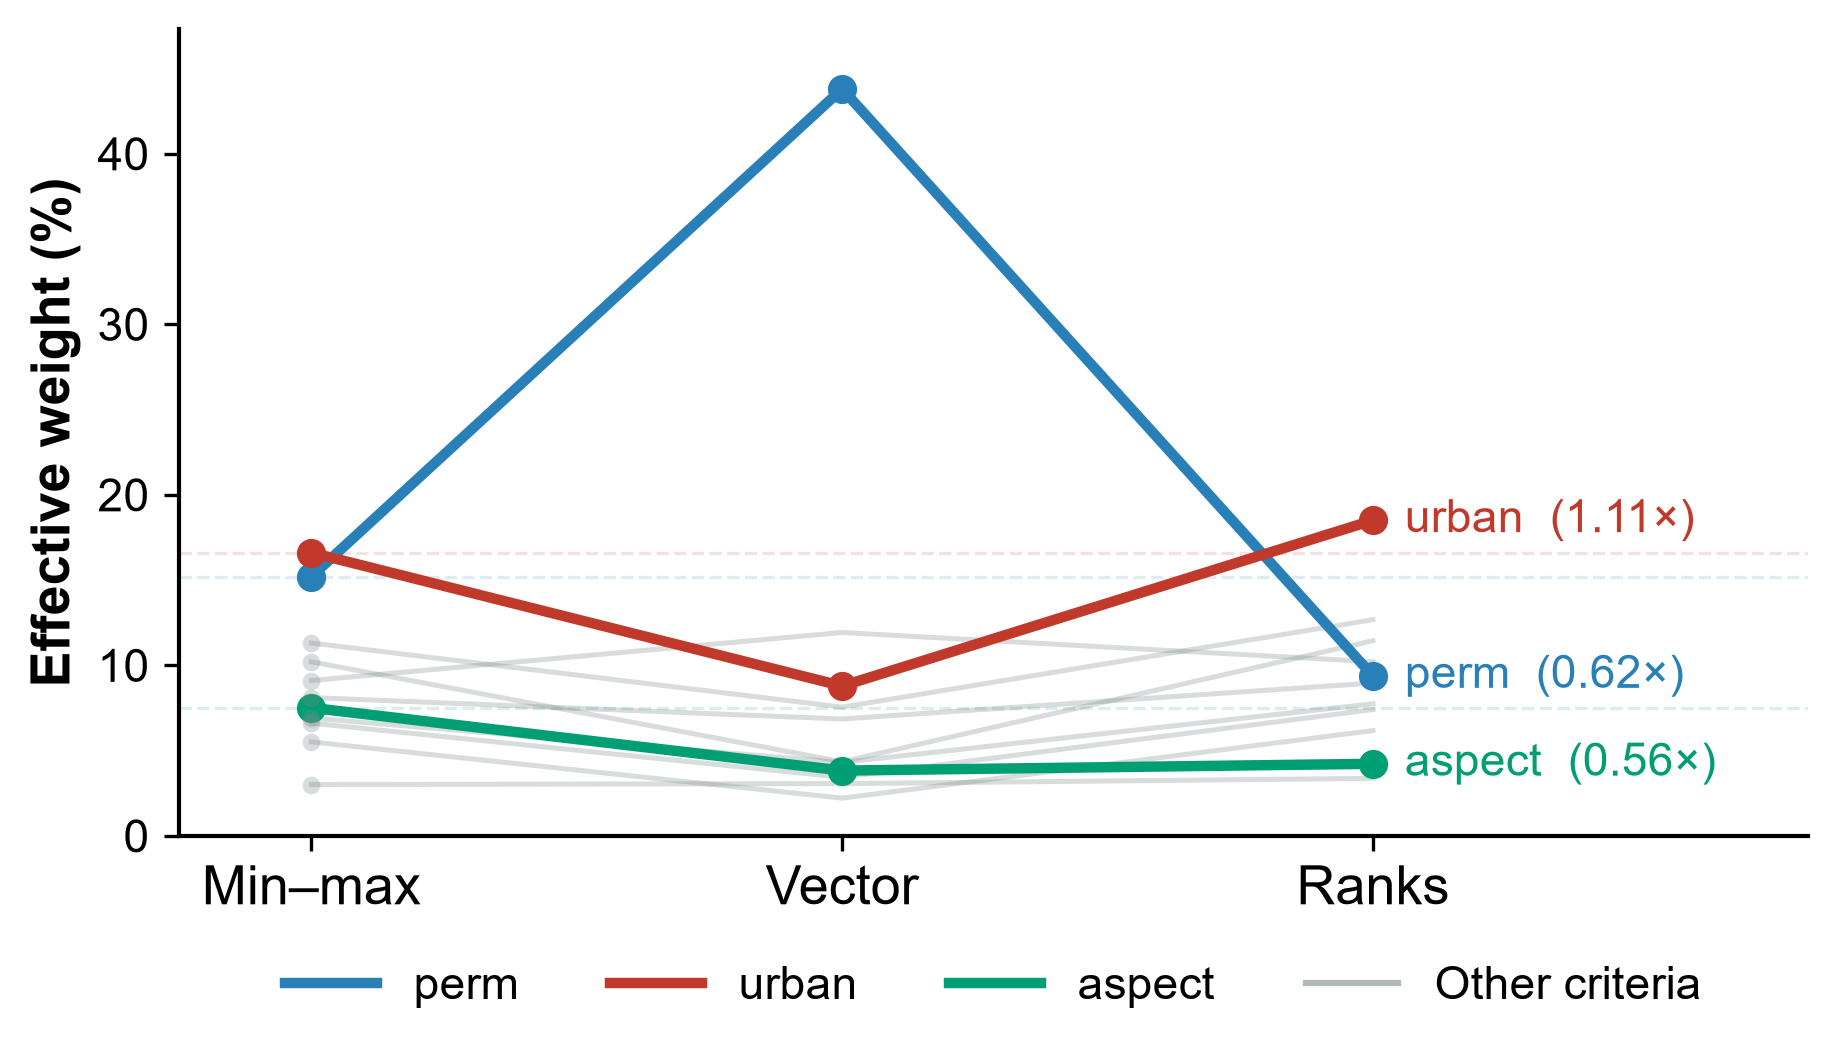
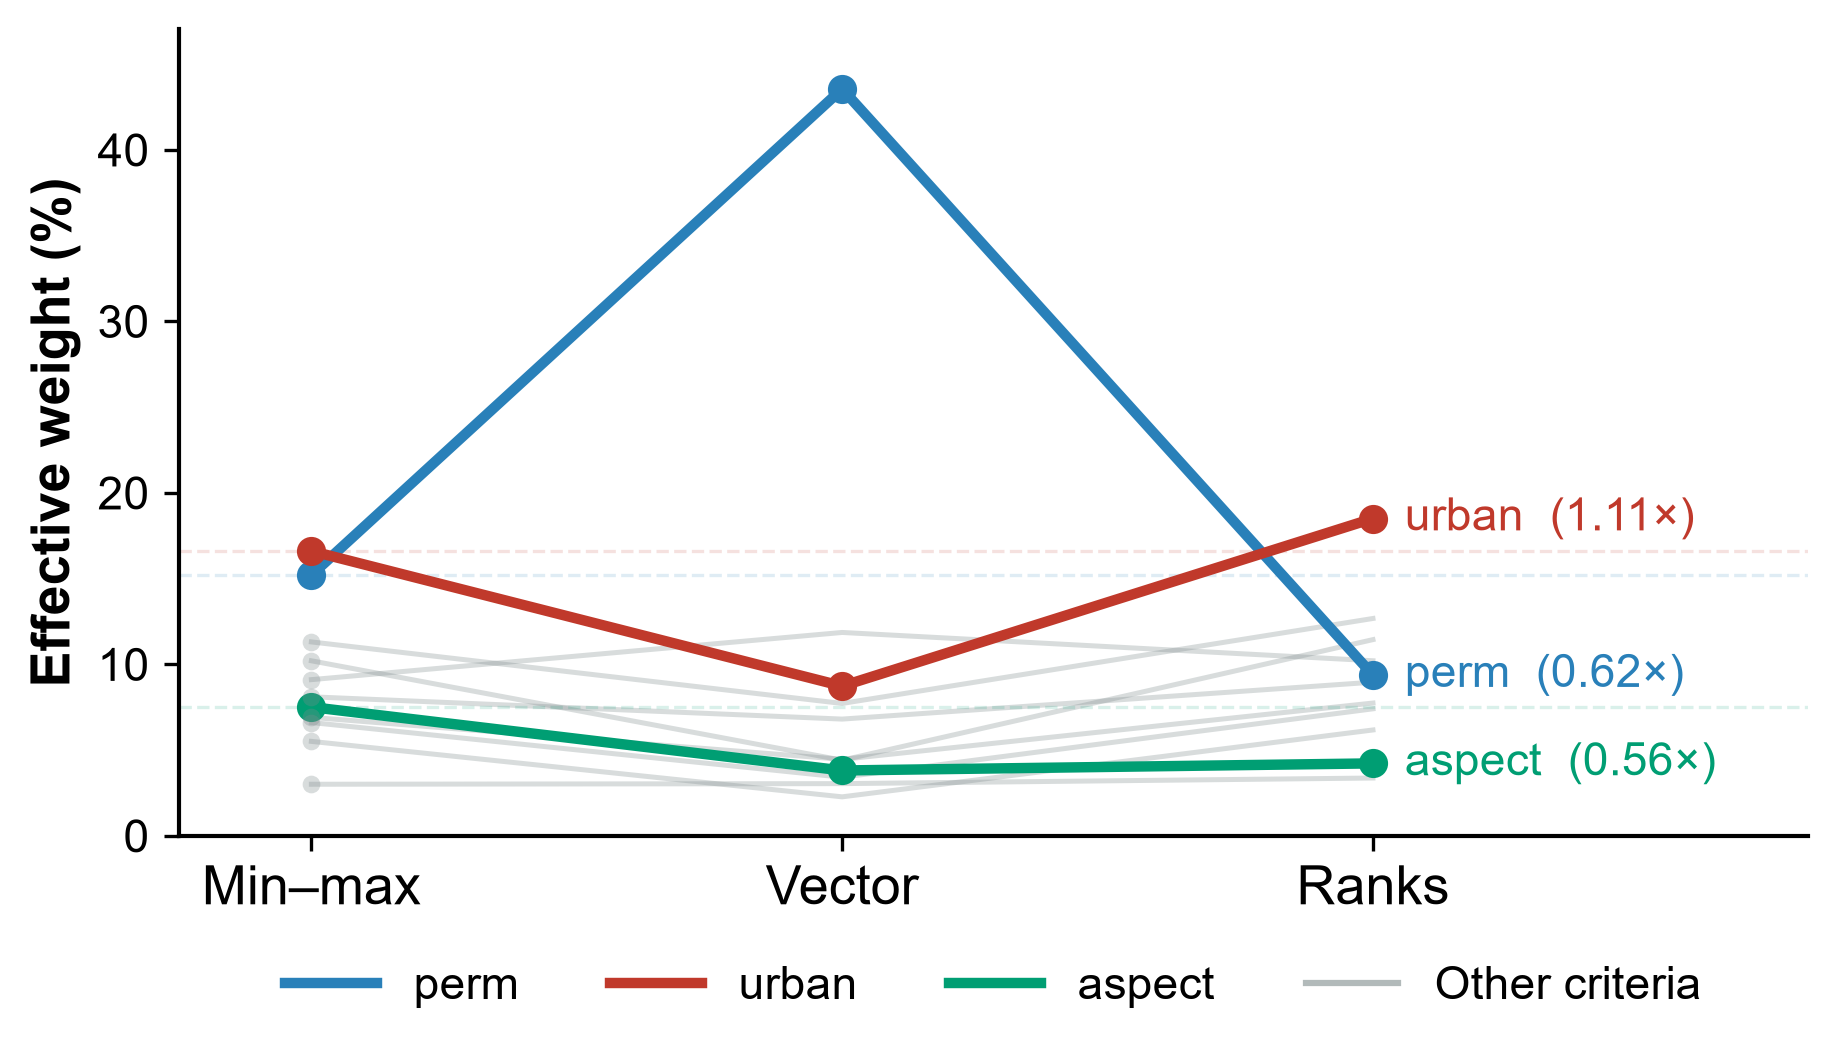
fix: A2/A8/A9/G1 -- raw->shift in para6.8, ties counted-not-excluded, divides->scales, fig_F1 reads from amplitudes.json (perm 2.88x->2.86x)

diff --git a/scripts/fig_F1_slope_weights.py b/scripts/fig_F1_slope_weights.py
@@ -1,25 +1,46 @@
-"""F1 — Slope chart: nominal vs effective weights, Intervention Window style."""
-import sys, os
+"""F1 — Slope chart: nominal vs effective weights, Intervention Window style.
+
+Reads rho_j amplitudes from results/amplitudes/amplitudes.json (AUTO-GENERATED).
+Never use hardcoded amplitude values — the JSON is the single source of truth.
+"""
+import sys, os, json
 sys.path.insert(0, os.path.dirname(os.path.abspath(__file__)))
 from fig_utils import set_rcparams, savefig, COL2, WONG, C_TREATMENT, C_BASELINE, C_ORANGE, C_GREEN, C_GRAY
 import matplotlib.pyplot as plt
 import matplotlib.lines as mlines
+import numpy as np
 
 set_rcparams()
 
+# ── Load amplitudes from JSON ──────────────────────────────────────────────
+_here = os.path.dirname(os.path.abspath(__file__))
+_json = os.path.join(_here, "..", "results", "amplitudes", "amplitudes.json")
+with open(_json) as _f:
+    _amp = json.load(_f)
+
 criteria = ['perm','slope','roads','rivers','aspect',
             'coast','protected','wells','urban','aero','cult']
+
 w_nom = dict(perm=0.152, slope=0.113, roads=0.030, rivers=0.091, aspect=0.075,
              coast=0.069, protected=0.066, wells=0.055, urban=0.166,
              aero=0.102, cult=0.081)
+
+# ── Amplitudes (rho_j) from JSON ─────────────────────────────────────────
+rho = _amp["rho_j"]  # dict: criterion -> rho_shift value
+
+# Min-max: all amplitudes = 1.0 (range of mm-normalised column = 1)
 A = dict(
     mm  = {c: 1.000 for c in criteria},
-    vec = dict(perm=0.583, slope=0.135, roads=0.206, rivers=0.265, aspect=0.103,
-               coast=0.126, protected=0.105, wells=0.081, urban=0.107,
-               aero=0.086, cult=0.171),
-    rank= dict(perm=0.547, slope=0.995, roads=0.995, rivers=0.995, aspect=0.499,
-               coast=0.995, protected=0.995, wells=0.995, urban=0.989,
-               aero=0.995, cult=0.981),
+    vec = {c: rho[c] for c in criteria},
+)
+
+# Midranks amplitudes: range(ranks_j) / (N+1); approximate as 1 - tie_correction.
+# These are NOT in amplitudes.json (midranks are heuristic, not the canonical
+# shift formula). Keep hardcoded but document them here explicitly.
+A["rank"] = dict(
+    perm=0.547, slope=0.995, roads=0.995, rivers=0.995, aspect=0.499,
+    coast=0.995, protected=0.995, wells=0.995, urban=0.989,
+    aero=0.995, cult=0.981,
 )
 
 def weff(w, a):

diff --git a/main.tex b/main.tex
@@ -2523,7 +2523,7 @@ Among instances with no detectable loss at any $\mathrm{TV}_W$
 level (27--40\% of instances under continuous marginals)
 the comparison is uninformative.
 Among the \EsixPtwoLossyNAll{} informative instances, \EsixPtwoMonoAll{}
-satisfied the ordering (two three-way ties and one reversal excluded;
+satisfied the ordering (two three-way ties and one reversal counted as failures;
 \EsixPtwoPAll; Supplementary Material, DEV-E6-002).
 
 P3 (TV\textsubscript{B} aggravates loss) met the pre-registered criterion
@@ -2734,7 +2734,7 @@ weight.
 Where weights carry no normative content the trade may be acceptable.
 Where they encode elicited stakeholder judgements, as AHP weights do, a
 normalisation that silently multiplies one criterion by $\PermInflation\times$ and
-divides another by $0.53\times$ is difficult to defend, and min--max
+scales another by a factor of $\UrbanRatioVec$ is difficult to defend, and min--max
 on the admissible set is preferable on precisely the grounds
 \citet{Choo1999} articulate.
 
@@ -3015,7 +3015,7 @@ Given the normalised decision matrix the computation is a single line,
 and it exposes distortions that no rank-agreement diagnostic reveals.
 Where weights encode stakeholder judgements, as AHP weights do, a
 normalisation that silently multiplies one criterion by $\PermInflation\times$ and
-divides another by $0.53\times$ is difficult to defend.
+scales another by a factor of $\UrbanRatioVec$ is difficult to defend.
 
 The closed form is exact for additive aggregation under affine normalisation; for ranks the identity is approximate. TOPSIS and VIKOR
 combine distances to ideal points, where amplitudes enter quadratically
